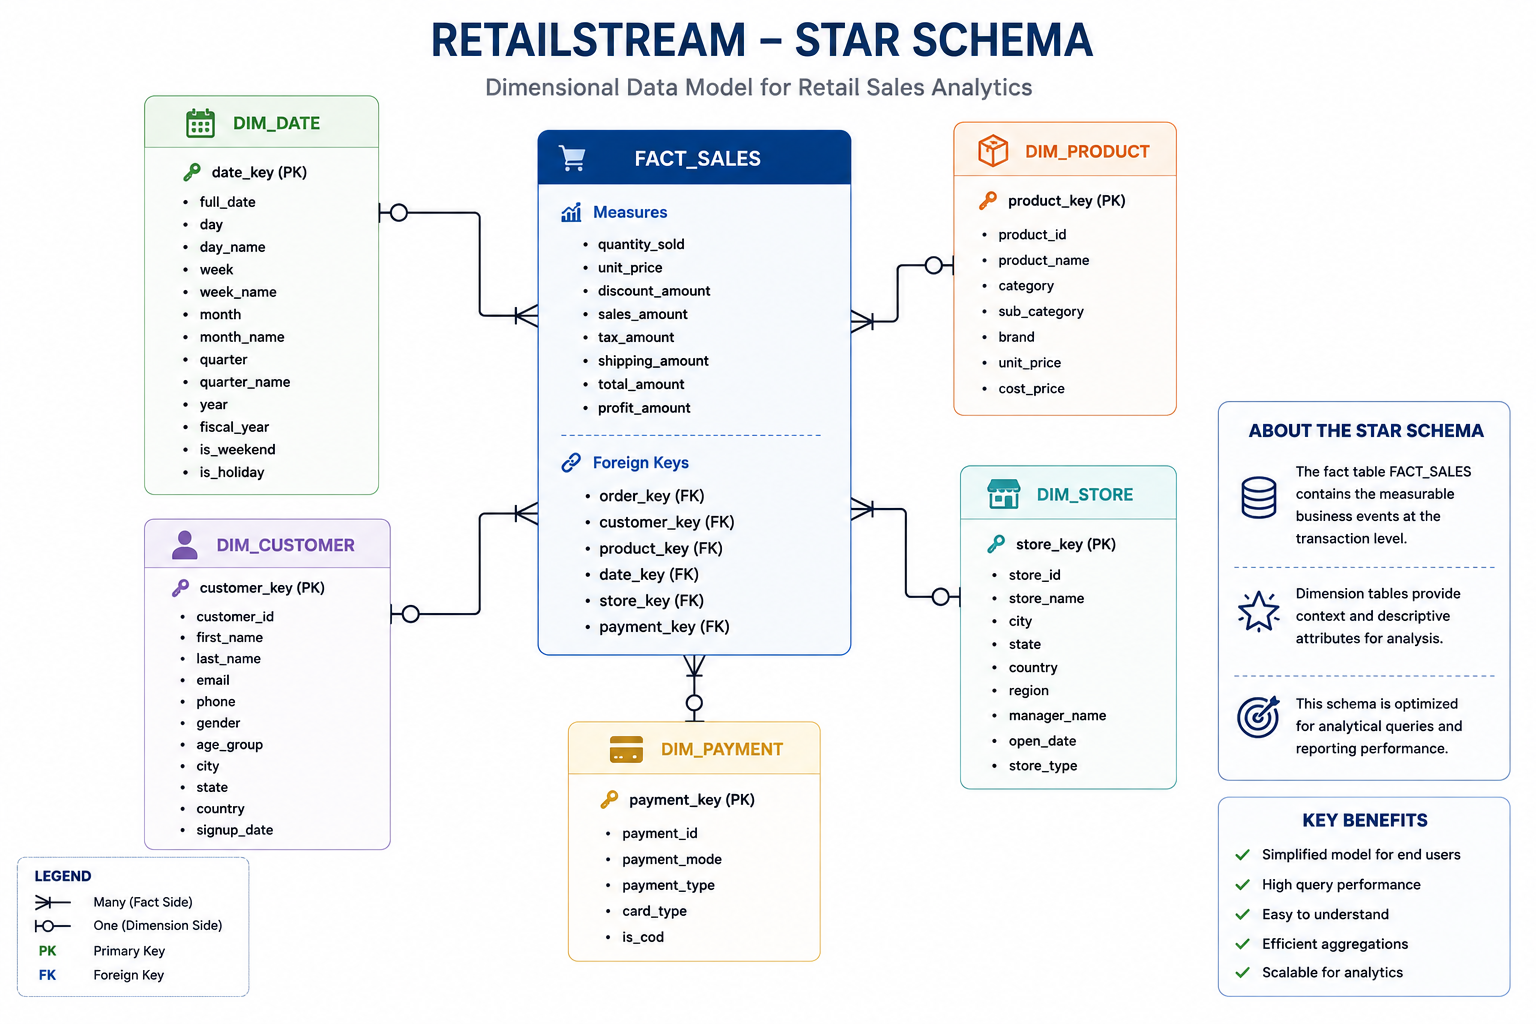
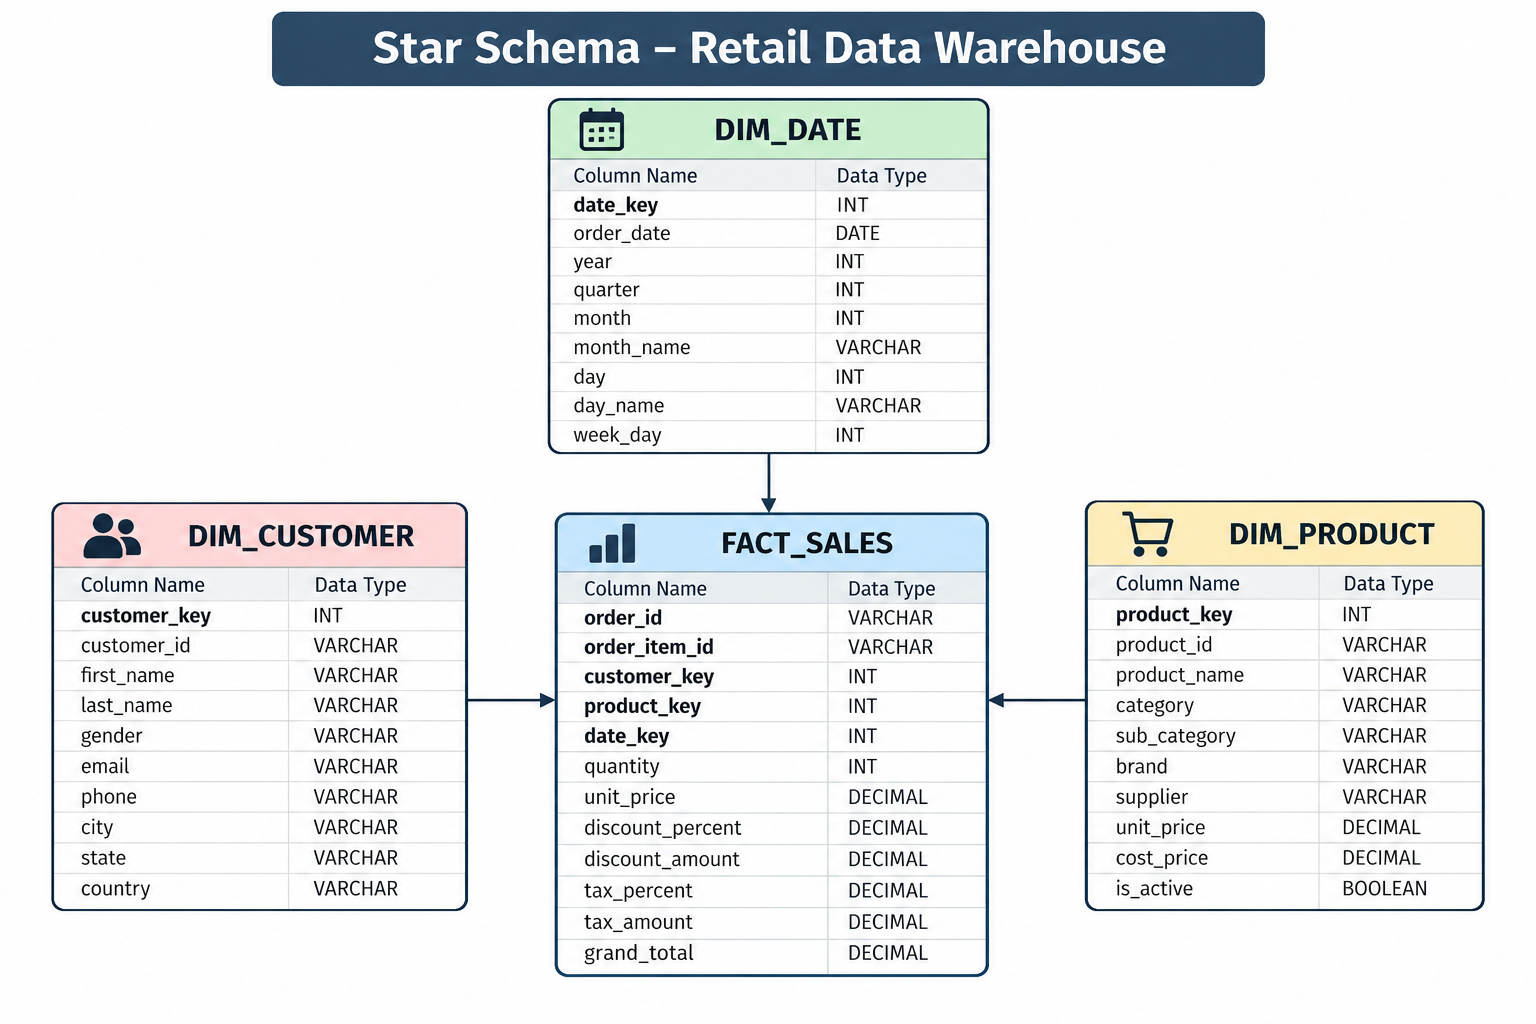
Improve configuration, deployment, and project documentation

Changed region(s): [[0.0, 0.0, 0.9688, 0.9688], [0.25, 0.1875, 0.3125, 0.2188]]

diff --git a/src/config/loader.py b/src/config/loader.py
@@ -2,6 +2,7 @@
 Configuration Loader.
 """
 
+import os
 from pathlib import Path
 
 import yaml
@@ -17,6 +18,30 @@ class ConfigLoader:
     def _get_file_path(self, filename):
         return self.config_directory / filename
 
+    def _resolve_env_variables(self, data):
+        if isinstance(data, dict):
+            return {
+                key: self._resolve_env_variables(value)
+                for key, value in data.items()
+            }
+
+        if isinstance(data, list):
+            return [
+                self._resolve_env_variables(value)
+                for value in data
+            ]
+
+        if isinstance(data, str) and data.startswith("${") and data.endswith("}"):
+            variable = data[2:-1]
+            value = os.environ.get(variable)
+            if value is None or not value.strip():
+                raise InvalidConfigError(
+                    f"Required environment variable '{variable}' is not set."
+                )
+            return value
+
+        return data
+
     def load_yaml(self, filename):
 
         file_path = self._get_file_path(filename)
@@ -29,6 +54,9 @@ class ConfigLoader:
         try:
             with open(file_path, "r", encoding="utf-8") as file:
                 data = yaml.safe_load(file)
+
+            if isinstance(data, dict):
+                data = self._resolve_env_variables(data)
 
             return data if data else {}
 

diff --git a/scripts/run_pipeline.py b/scripts/run_pipeline.py
@@ -5,6 +5,7 @@ from src.silver.spark_orders_transformer import SparkOrdersTransformer
 from src.silver.spark_product_transformer import SparkProductTransformer
 from src.silver.spark_silver_pipeline import SparkSilverPipeline
 from src.gold.spark_gold_pipeline import SparkGoldPipeline
+from src.warehouse.spark_warehouse_pipeline import SparkWarehousePipeline
 
 
 def main():
@@ -12,10 +13,10 @@ def main():
     print("RetailStream Data Platform")
     print("=" * 80)
 
-    print("\n[1/3] Running Bronze Pipeline...")
+    print("\n[1/4] Running Bronze Pipeline...")
     SparkBronzePipeline().run()
 
-    print("\n[2/3] Running Silver Pipeline...")
+    print("\n[2/4] Running Silver Pipeline...")
     silver = SparkSilverPipeline()
 
     silver.register("customers", SparkCustomerTransformer())
@@ -25,11 +26,13 @@ def main():
 
     silver.run()
 
-    print("\n[3/3] Running Gold Pipeline...")
+    print("\n[3/4] Running Gold Pipeline...")
     SparkGoldPipeline().run()
 
-    print("\n✅ RetailStream pipeline completed successfully.")
+    print("\n[4/4] Loading Warehouse...")
+    SparkWarehousePipeline().run()
 
+    print("\nRetailStream pipeline completed successfully.")
 
 if __name__ == "__main__":
     main()

diff --git a/src/orchestration/docker_executor.py b/src/orchestration/docker_executor.py
@@ -31,4 +31,4 @@ class DockerExecutor:
         """
         Execute a Python script inside the Spark container.
         """
-        self.run(f"python3 {script_name}")
+        self.run(f"python3 scripts/{script_name}")

diff --git a/deployment/superset/superset_config.py b/deployment/superset/superset_config.py
@@ -1,1 +1,3 @@
-SECRET_KEY = "retailstream-secret-key"
+import os
+
+SECRET_KEY = os.environ["SUPERSET_SECRET_KEY"]

diff --git a/README.md b/README.md
@@ -470,7 +470,7 @@ Before getting started, ensure the following tools are installed:
 ## Clone the Repository
 
 ```bash
-git clone https://github.com/<your-github-username>/retailstream-data-platform.git
+git clone https://github.com/harshitsh117/retailstream-data-platform.git
 
 cd retailstream-data-platform
 ```
@@ -527,10 +527,9 @@ python scripts/run_pipeline.py
 Or execute each stage individually.
 
 ```bash
-python scripts/run_bronze.py
-
-python scripts/run_silver.py
-
+python scripts/run_spark_bronze.py
+python scripts/run_spark_silver.py
+python scripts/run_spark_gold.py
 python scripts/run_warehouse.py
 ```
 
